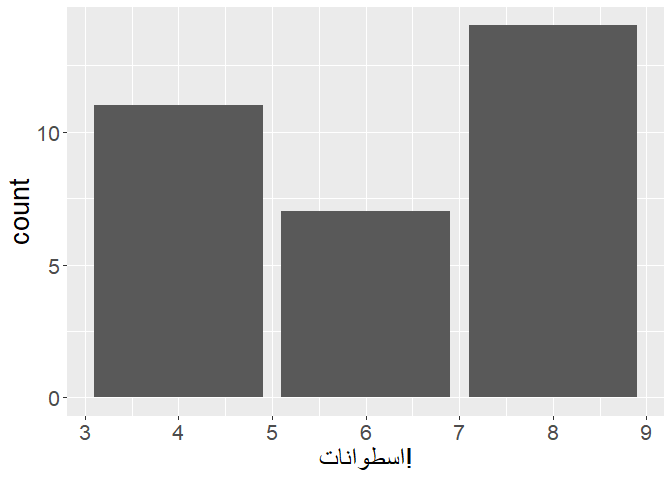
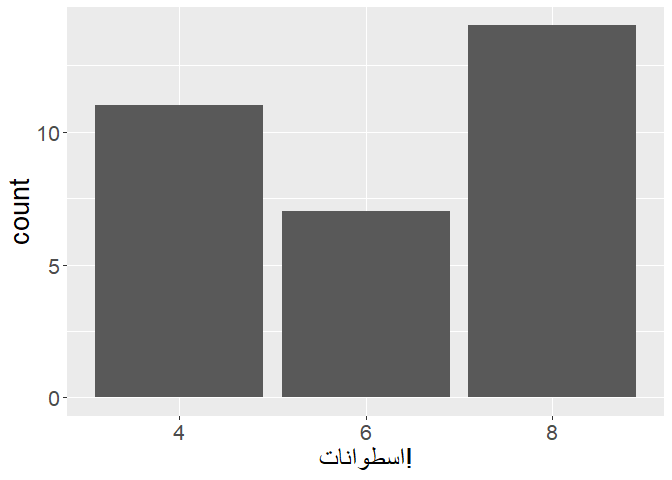
Assign Readme basic plot to an object

diff --git a/README.md b/README.md
@@ -60,8 +60,9 @@ You can also use it in plots, for example:
 library(ggplot2)
 #> Warning: package 'ggplot2' was built under R version 4.2.2
 theme_update(text = element_text(size = 20))
-ggplot(mtcars, aes(cyl)) +
-  geom_bar() +
+p <- ggplot(mtcars, aes(factor(cyl))) +
+  geom_bar()
+p +
   labs(
     x = "اسطوانات!"
     # `x` in `labs()` says "cylinders!" in Arabic.
@@ -75,8 +76,7 @@ be on the left, as Arabic is another right-to-left language. use
 `str_rtl()` to solve it, like this:
 
 ``` r
-ggplot(mtcars, aes(cyl)) +
-  geom_bar() +
+p +
   labs(
     x = str_rtl("اسطوانات!")
     # `x` in `labs()` says in Arabic:
@@ -96,8 +96,7 @@ the left side, but the parentheses on the bottom row are wrongly placed
 on the right side.
 
 ``` r
-ggplot(mtcars, aes(cyl)) +
-  geom_bar() +
+p +
   labs(
     x = paste0("اسطوانات! (عدد المكابس)", "\n", "عام (2023)")
     # `x` in `labs()` says in Arabic:
@@ -111,10 +110,13 @@ ggplot(mtcars, aes(cyl)) +
 This can be easily solved with `str_rtl()` and `multiline = TRUE`:
 
 ``` r
-ggplot(mtcars, aes(cyl)) +
-  geom_bar() +
+p +
   labs(
-    x = str_rtl("اسطوانات! (عدد المكابس)", "عام (2023)", multiline = TRUE)
+    x = str_rtl(
+      "اسطوانات! (عدد المكابس)",
+      "عام (2023)",
+      multiline = TRUE
+    )
     # `x` in `labs()` says in Arabic:
     # "cylinders! (The number of pistons)"
     # "Year (2023)"
@@ -128,10 +130,13 @@ you have to write a lot of text regarding the source of the data and the
 copyrights. When you don’t notice, you can easily overflow:
 
 ``` r
-ggplot(mtcars, aes(cyl)) +
-  geom_bar() +
+p +
   labs(
-    x = str_rtl("اسطوانات! (عدد المكابس)", "عام (2023)", multiline = TRUE),
+    x = str_rtl(
+      "اسطوانات! (عدد المكابس)",
+      "عام (2023)",
+      multiline = TRUE
+    ),
     # `x` in `labs()` says in Arabic:
     # "cylinders! (The number of pistons)"
     # "Year (2023)"
@@ -153,10 +158,13 @@ We have two problems here:
 This can again be easily solved using the `multiline = TRUE` argument:
 
 ``` r
-ggplot(mtcars, aes(cyl)) +
-  geom_bar() +
+p +
   labs(
-    x = str_rtl("اسطوانات! (عدد المكابس)", "عام (2023)", multiline = TRUE),
+    x = str_rtl(
+      "اسطوانات! (عدد المكابس)",
+      "عام (2023)",
+      multiline = TRUE
+    ),
     # `x` in `labs()` says in Arabic:
     # "cylinders! (The number of pistons)"
     # "Year (2023)"
